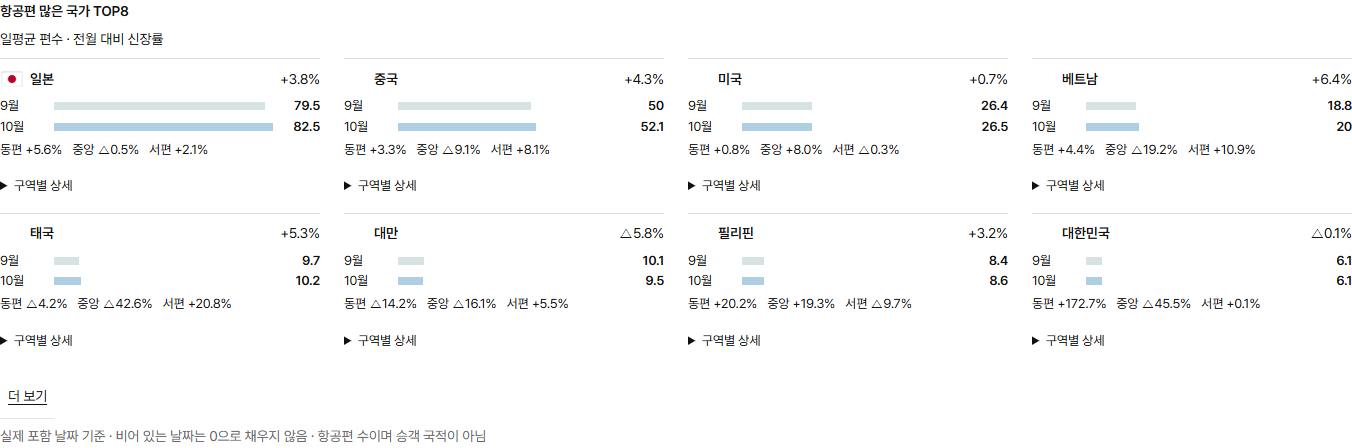
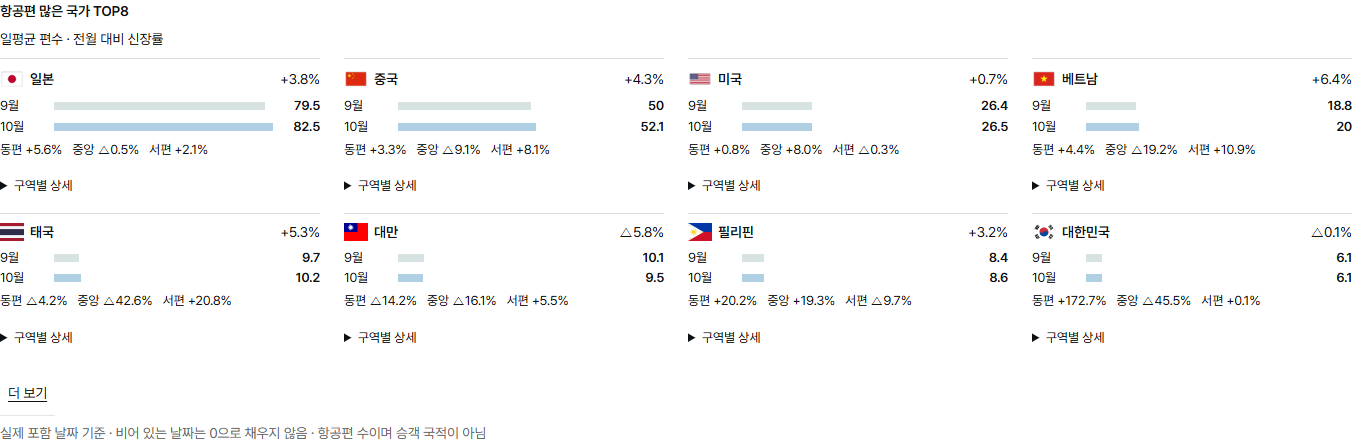
Keep fixed application chrome outside TOP8 evidence captures

diff --git a/docs/COUNTRY_VOLUME_ORDER_20261012.md b/docs/COUNTRY_VOLUME_ORDER_20261012.md
@@ -12,3 +12,5 @@ Only the compact component imports a new pure ordering helper; title labels name
 - [Browser evidence](screenshots/country-volume-order-20261012/evidence.json)
 
 Checks: new ordering2 + font2 PASS; existing monthly/country8 PASS; typecheck PASS; scoped lint0 errors/one existing static flag-img advisory; UI-lock unchanged PASS; native production build PASS; top-eight browser4 PASS at360/390/430/1280 including keyboard expand/collapse and unchanged share definitions. Actual-source PC/mobile captures verify all8, US26.5, entire expanded order, no horizontal overflow/page errors. Git diff and committed-file secret checks are recorded on the draft PR. No merge or deployment.
+
+Component captures hide only fixed/sticky application chrome so it cannot obscure the ranked cards; card layout, text and values are unchanged.
